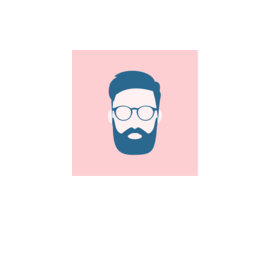
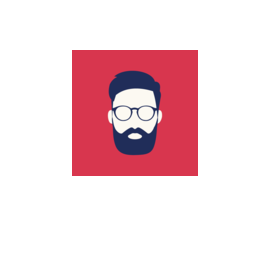
added new favico

Changed region(s): [[0.2667, 0.1778, 0.7407, 0.6519]]

diff --git a/_includes/head.html b/_includes/head.html
@@ -34,7 +34,7 @@
 	<link rel="icon" type="image/png" href="/favicon-16x16.png" sizes="16x16">
 	<link rel="manifest" href="/manifest.json">
 	<link rel="mask-icon" href="/safari-pinned-tab.svg" color="#5bbad5">
-	<meta name="theme-color" content="#fdced2">
+	<meta name="theme-color" content="#ffffff">
 
 
 </head>
